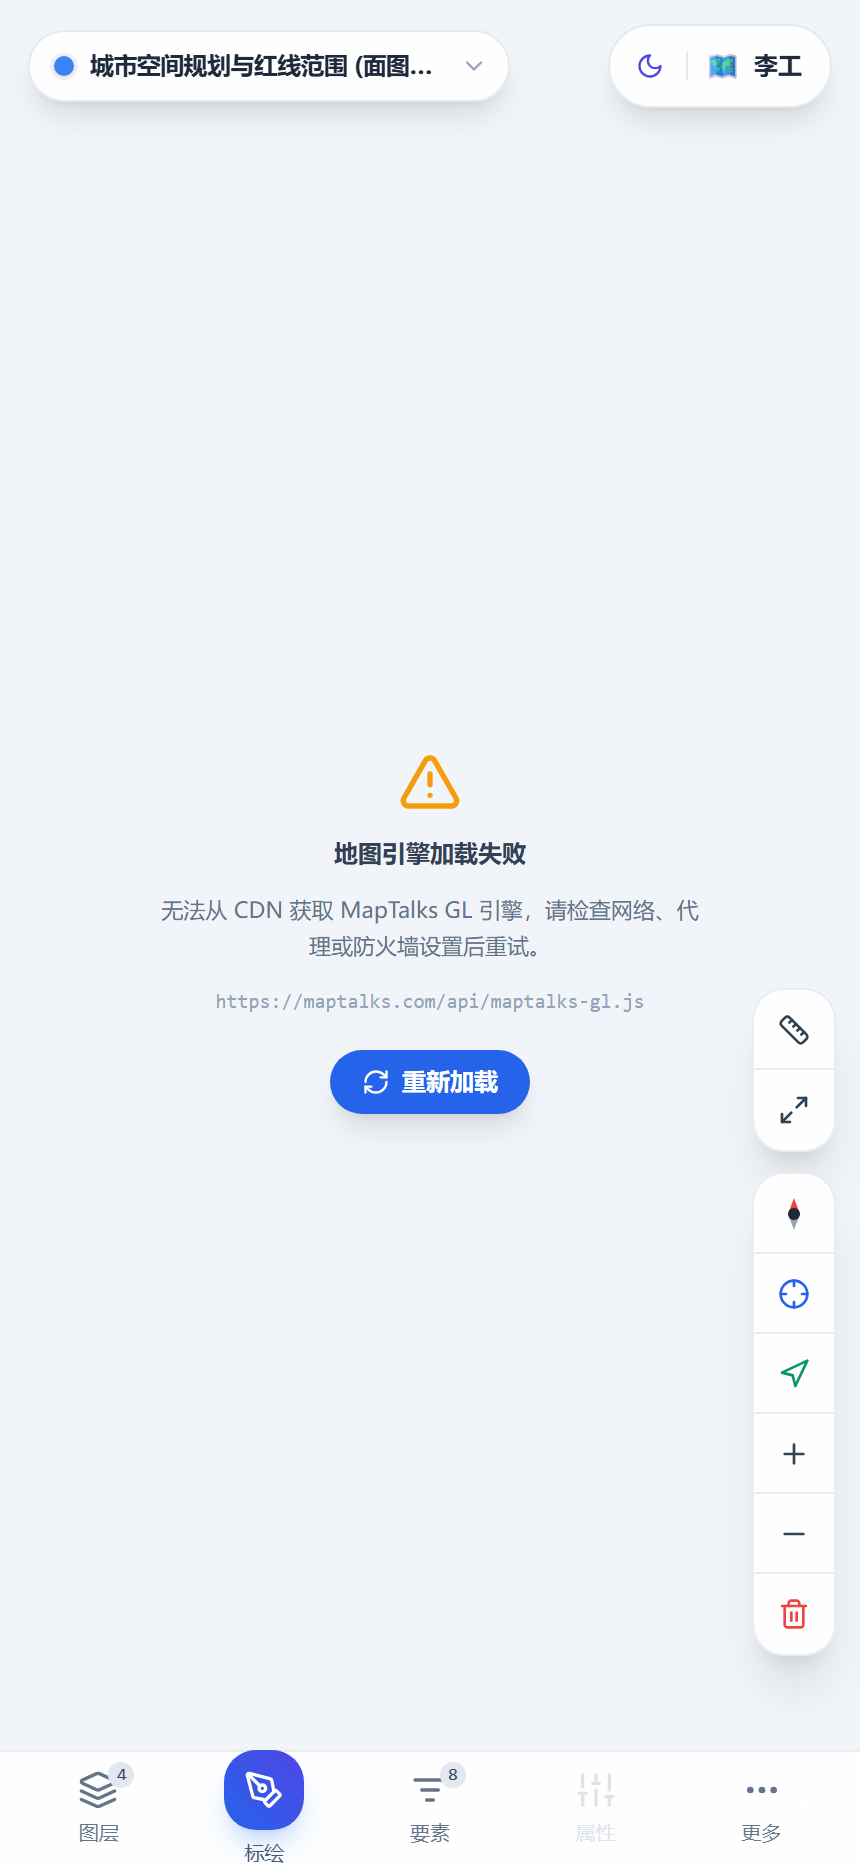
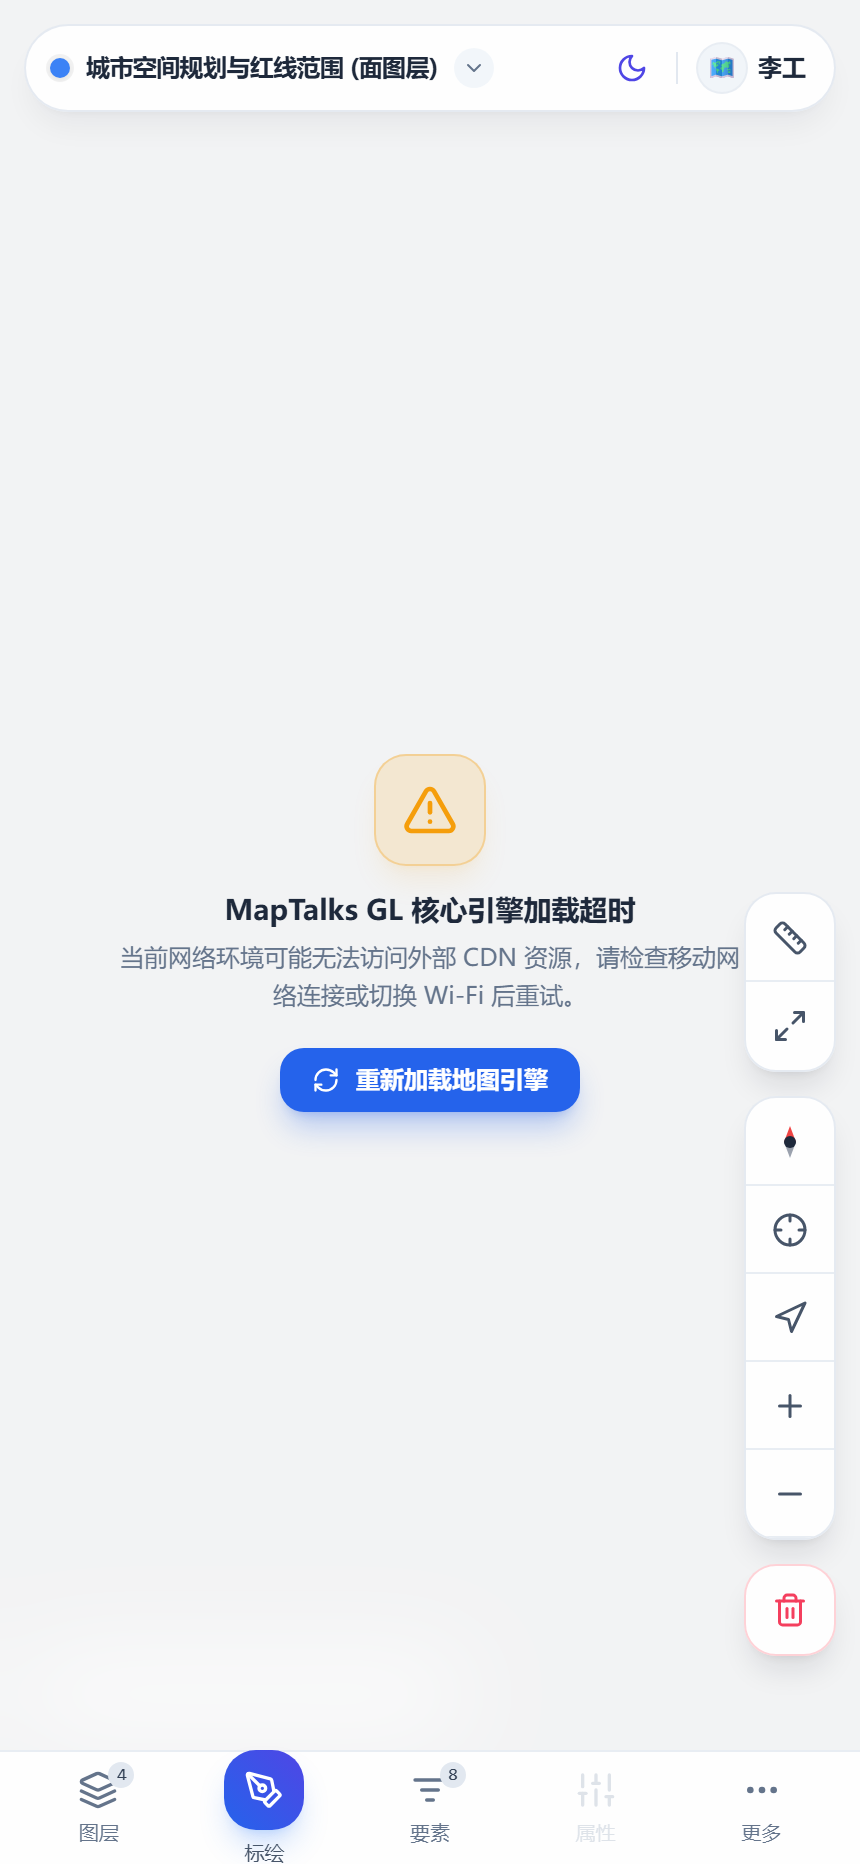
feat: 顶栏合并为单一胶囊，右侧工具条重排分组，并修复重构引入的三处回归
顶栏与工具条重排
- 顶栏左右两块胶囊合并为一个：统一 44px 高度，标题占据弹性空间不再截断，
  头像改用中性圆形徽章托底，消除 emoji 与线性图标混搭的割裂感
- 右侧工具条重新分组：量算(2) / 视图(5) / 清理(1) 三组卡片，卡片左右边缘对齐、
  组间留 12px 间隔，破坏性操作独立成卡并加玫瑰色描边
- 按钮触控区由 40×40 提升到 44×44，图标统一 18px
- 配色收敛：常态图标统一中性灰，仅激活态(测距琥珀/测面翠绿)、朝向偏离(青)、
  破坏性(玫瑰)保留强调色

修复重构(e3775ae)引入的三处回归
- App.tsx 漏传 onOpenClearFeatures，导致右侧「清空地图要素」按钮消失
- 引擎加载遮罩被改回 z-50 全屏，重新遮住顶栏与底栏，恢复为 z-20
- 失败态「重新加载地图引擎」只重置状态不重新拉取引擎，会永久卡在初始化，
  改为整页重载，并补 aria-label

diff --git a/src/components/Mobile/MobileDrawingControls.tsx b/src/components/Mobile/MobileDrawingControls.tsx
@@ -135,7 +135,7 @@ export const MobileDrawingControls: React.FC<MobileDrawingControlsProps> = ({
       {drawingTool && (
         <div
           className="absolute left-3 right-3 z-30 flex items-center justify-between gap-2 p-2.5 rounded-2xl bg-white/95 dark:bg-gray-900/95 backdrop-blur-md border border-blue-500/50 shadow-2xl animate-in slide-in-from-top-4 duration-200"
-          style={{ top: 'calc(env(safe-area-inset-top, 0px) + 3.75rem)' }}
+          style={{ top: 'calc(env(safe-area-inset-top, 0px) + 4.25rem)' }}
         >
           <div className="flex items-center gap-2 min-w-0">
             <span
@@ -250,7 +250,7 @@ export const MobileDrawingControls: React.FC<MobileDrawingControlsProps> = ({
       {drawingTool && topologyWarning && (
         <div
           className="absolute left-3 right-3 z-30 flex items-center gap-2 p-2.5 rounded-xl bg-red-50 dark:bg-red-950/95 border border-red-300 dark:border-red-500/60 text-red-700 dark:text-red-200 text-xs font-semibold backdrop-blur-md shadow-2xl animate-in slide-in-from-top-2 duration-200"
-          style={{ top: 'calc(env(safe-area-inset-top, 0px) + 7.25rem)' }}
+          style={{ top: 'calc(env(safe-area-inset-top, 0px) + 8rem)' }}
         >
           <AlertTriangle className="w-4 h-4 text-red-500 dark:text-red-400 shrink-0 animate-pulse" />
           <span className="truncate">{topologyWarning}</span>
@@ -374,53 +374,57 @@ export const MobileDrawingControls: React.FC<MobileDrawingControlsProps> = ({
         </div>
       )}
 
-      {/* 右侧悬浮移动端 GIS 交互工具组 (模块化整合设计，当选中要素时智能抬升避让，彻底避免遮挡) */}
+      {/* 右侧悬浮移动端 GIS 交互工具条
+          分组重排：① 量算（进入测量模式） ② 视图（朝向/定位/缩放） ③ 清理（破坏性操作，单独隔离）
+          配色收敛：常态统一为中性灰，仅「激活态 / 状态偏离 / 破坏性」保留强调色，避免多色图标混杂。 */}
       <div
-        className="absolute right-3 z-20 flex flex-col gap-2.5 transition-all duration-300"
+        className="absolute right-3 z-20 flex flex-col items-end gap-3 transition-all duration-300"
         style={{
           bottom: `calc(env(safe-area-inset-bottom, 0px) + ${
             drawingTool ? '11.5rem' : hasSelectedFeature ? '11.5rem' : '6.5rem'
           })`,
         }}
       >
-        {/* 1. 空间量算双功能模块 (测距 / 测面) */}
-        <div className="flex flex-col bg-white/90 dark:bg-gray-950/85 backdrop-blur-xl border border-slate-200/80 dark:border-white/10 rounded-2xl shadow-xl overflow-hidden">
+        {/* 1. 量算组 (测距 / 测面) —— 模式型工具，放在最上方便于第一时间发现 */}
+        <div className="flex flex-col bg-white/90 dark:bg-gray-950/85 backdrop-blur-xl border border-slate-200/90 dark:border-white/10 rounded-2xl shadow-lg shadow-slate-900/10 dark:shadow-black/40 overflow-hidden">
           <button
             onClick={onToggleMeasureDistance}
-            className={`w-10 h-10 flex items-center justify-center transition border-b border-slate-200/80 dark:border-white/10 ${
+            className={`w-11 h-11 flex items-center justify-center transition border-b border-slate-200/80 dark:border-white/10 ${
               drawingTool === 'measure-distance'
                 ? 'bg-amber-500 text-gray-950 font-bold shadow-inner'
-                : 'text-slate-700 dark:text-gray-300 active:bg-slate-100 dark:active:bg-gray-800/80 hover:text-blue-600 dark:hover:text-white'
+                : 'text-slate-600 dark:text-gray-300 active:bg-slate-100 dark:active:bg-gray-800/80'
             }`}
             title="空间折线测距 (Distance)"
             aria-label="空间折线测距"
             aria-pressed={drawingTool === 'measure-distance'}
           >
-            <Ruler className="w-4 h-4" />
+            <Ruler className="w-[18px] h-[18px]" />
           </button>
 
           <button
             onClick={onToggleMeasureArea}
-            className={`w-10 h-10 flex items-center justify-center transition ${
+            className={`w-11 h-11 flex items-center justify-center transition ${
               drawingTool === 'measure-area'
                 ? 'bg-emerald-500 text-gray-950 font-bold shadow-inner'
-                : 'text-slate-700 dark:text-gray-300 active:bg-slate-100 dark:active:bg-gray-800/80 hover:text-blue-600 dark:hover:text-white'
+                : 'text-slate-600 dark:text-gray-300 active:bg-slate-100 dark:active:bg-gray-800/80'
             }`}
             title="空间多边形测面 (Area)"
             aria-label="空间多边形测面"
             aria-pressed={drawingTool === 'measure-area'}
           >
-            <Maximize2 className="w-4 h-4" />
+            <Maximize2 className="w-[18px] h-[18px]" />
           </button>
         </div>
 
-        {/* 2. 地图视图控制模块 (物理动态指北针 + 全景复位 + GPS定位 + 缩放控制 + 清空地图要素) */}
-        <div className="flex flex-col bg-white/90 dark:bg-gray-950/85 backdrop-blur-xl border border-slate-200/80 dark:border-white/10 rounded-2xl shadow-xl overflow-hidden">
+        {/* 2. 视图组 (复位正北 / 全景复位 / GPS 定位 / 缩放) */}
+        <div className="flex flex-col bg-white/90 dark:bg-gray-950/85 backdrop-blur-xl border border-slate-200/90 dark:border-white/10 rounded-2xl shadow-lg shadow-slate-900/10 dark:shadow-black/40 overflow-hidden">
           {onResetNorth && (
             <button
               onClick={onResetNorth}
-              className={`w-10 h-10 flex flex-col items-center justify-center border-b border-slate-200/80 dark:border-white/10 active:bg-slate-100 dark:active:bg-gray-800/80 transition relative ${
-                Math.abs(bearing) > 0.5 ? 'bg-cyan-50 dark:bg-cyan-950/40 text-cyan-600 dark:text-cyan-300 shadow-inner' : 'text-slate-700 dark:text-gray-300 hover:text-slate-900 dark:hover:text-white'
+              className={`w-11 h-11 flex flex-col items-center justify-center border-b border-slate-200/80 dark:border-white/10 active:bg-slate-100 dark:active:bg-gray-800/80 transition relative ${
+                Math.abs(bearing) > 0.5
+                  ? 'bg-cyan-50 dark:bg-cyan-950/40 text-cyan-600 dark:text-cyan-300 shadow-inner'
+                  : 'text-slate-600 dark:text-gray-300'
               }`}
               title={`当前地图朝向: ${Math.round(((bearing % 360) + 360) % 360)}° (点击一键复位正北)`}
               aria-label="一键复位正北"
@@ -447,56 +451,59 @@ export const MobileDrawingControls: React.FC<MobileDrawingControlsProps> = ({
 
           <button
             onClick={onResetView}
-            className="w-10 h-10 flex items-center justify-center text-blue-600 dark:text-blue-400 active:bg-slate-100 dark:active:bg-gray-800/80 border-b border-slate-200/80 dark:border-white/10 transition"
+            className="w-11 h-11 flex items-center justify-center text-slate-600 dark:text-gray-300 active:bg-slate-100 dark:active:bg-gray-800/80 border-b border-slate-200/80 dark:border-white/10 transition"
             title="复位全景范围"
             aria-label="复位全景范围"
           >
-            <Crosshair className="w-4 h-4" />
+            <Crosshair className="w-[18px] h-[18px]" />
           </button>
 
           {onLocateGPS && (
             <button
               onClick={onLocateGPS}
-              className="w-10 h-10 flex items-center justify-center text-emerald-600 dark:text-emerald-400 active:bg-slate-100 dark:active:bg-gray-800/80 border-b border-slate-200/80 dark:border-white/10 transition"
+              className="w-11 h-11 flex items-center justify-center text-slate-600 dark:text-gray-300 active:bg-slate-100 dark:active:bg-gray-800/80 border-b border-slate-200/80 dark:border-white/10 transition"
               title="GPS 实时设备定位"
               aria-label="GPS 实时设备定位"
             >
-              <Navigation className="w-4 h-4" />
+              <Navigation className="w-[18px] h-[18px]" />
             </button>
           )}
 
           <button
             onClick={onZoomIn}
-            className="w-10 h-10 flex items-center justify-center text-slate-700 dark:text-gray-200 active:bg-slate-100 dark:active:bg-gray-800/80 border-b border-slate-200/80 dark:border-white/10 transition"
+            className="w-11 h-11 flex items-center justify-center text-slate-600 dark:text-gray-300 active:bg-slate-100 dark:active:bg-gray-800/80 border-b border-slate-200/80 dark:border-white/10 transition"
             title="放大"
             aria-label="地图放大"
           >
-            <Plus className="w-4 h-4" />
+            <Plus className="w-[18px] h-[18px]" />
           </button>
 
           <button
             onClick={onZoomOut}
-            className={`w-10 h-10 flex items-center justify-center text-slate-700 dark:text-gray-200 active:bg-slate-100 dark:active:bg-gray-800/80 transition ${
+            className={`w-11 h-11 flex items-center justify-center text-slate-600 dark:text-gray-300 active:bg-slate-100 dark:active:bg-gray-800/80 transition ${
               onOpenClearFeatures ? 'border-b border-slate-200/80 dark:border-white/10' : ''
             }`}
             title="缩小"
             aria-label="地图缩小"
           >
-            <Minus className="w-4 h-4" />
+            <Minus className="w-[18px] h-[18px]" />
           </button>
 
-          {/* 清除地图要素按钮 */}
-          {onOpenClearFeatures && (
+        </div>
+
+        {/* 3. 清理组 (破坏性操作) —— 独立成卡并加大间距，避免与视图操作误触 */}
+        {onOpenClearFeatures && (
+          <div className="flex flex-col bg-white/90 dark:bg-gray-950/85 backdrop-blur-xl border border-rose-200/90 dark:border-rose-500/30 rounded-2xl shadow-lg shadow-slate-900/10 dark:shadow-black/40 overflow-hidden">
             <button
               onClick={onOpenClearFeatures}
-              className="w-10 h-10 flex items-center justify-center text-red-500 dark:text-red-400 hover:text-red-600 dark:hover:text-red-300 active:bg-red-50 dark:active:bg-red-950/40 transition"
+              className="w-11 h-11 flex items-center justify-center text-rose-500 dark:text-rose-400 hover:text-rose-600 dark:hover:text-rose-300 active:bg-rose-50 dark:active:bg-rose-950/40 transition"
               title="清空地图要素 (Clear Features)"
               aria-label="清空地图要素"
             >
-              <Trash2 className="w-4 h-4" />
+              <Trash2 className="w-[18px] h-[18px]" />
             </button>
-          )}
-        </div>
+          </div>
+        )}
       </div>
     </>
   );

diff --git a/src/components/Mobile/MobileHeader.tsx b/src/components/Mobile/MobileHeader.tsx
@@ -21,13 +21,16 @@ export const MobileHeader: React.FC<MobileHeaderProps> = ({
   onToggleTheme,
 }) => {
   return (
-    <header className="absolute top-0 left-0 right-0 z-30 pointer-events-none px-3.5 pt-[max(env(safe-area-inset-top),12px)] select-none">
-      <div className="flex items-center justify-between">
-        {/* 左侧：当前工作图层灵动胶囊 (单行设计，告别拥挤与截断) */}
+    <header className="absolute top-0 left-0 right-0 z-30 pointer-events-none px-3 pt-[max(env(safe-area-inset-top),12px)] select-none">
+      {/* 顶栏合并为单一胶囊：左区=当前工作图层，右区=主题切换 + 当前身份
+          统一 44px 高度与内边距，避免左右两块高低不齐；图层名占据弹性空间，
+          既不会过早截断，也不会在中间留下空洞。 */}
+      <div className="pointer-events-auto flex items-center gap-1 h-11 pl-1 pr-1 rounded-full bg-white/90 dark:bg-gray-950/90 backdrop-blur-xl border border-slate-200/90 dark:border-white/10 shadow-lg shadow-slate-900/5 dark:shadow-black/30">
+        {/* 左区：当前工作图层切换 */}
         <button
           onClick={onOpenLayers}
           aria-label={`当前工作图层 ${activeLayer?.name || '默认工作图层'}，点击打开图层管控`}
-          className="pointer-events-auto flex items-center gap-2 pl-3 pr-2.5 py-2 rounded-full bg-white/90 dark:bg-gray-950/90 backdrop-blur-xl border border-slate-200/90 dark:border-white/10 shadow-lg active:scale-95 transition-all text-slate-800 dark:text-gray-100 max-w-[60%] min-h-[36px]"
+          className="flex items-center gap-2 min-w-0 flex-1 h-9 pl-2 pr-1.5 rounded-full text-left active:bg-slate-100/80 dark:active:bg-white/10 transition"
         >
           <span
             className="w-2.5 h-2.5 rounded-full shrink-0 shadow-sm ring-2 ring-black/5 dark:ring-white/20"
@@ -36,30 +39,35 @@ export const MobileHeader: React.FC<MobileHeaderProps> = ({
           <span className="text-xs font-bold text-slate-800 dark:text-gray-100 truncate tracking-tight">
             {activeLayer?.name || '默认工作图层'}
           </span>
-          <ChevronDown className="w-3.5 h-3.5 text-slate-400 dark:text-gray-400 shrink-0 ml-0.5" />
+          <span className="w-5 h-5 shrink-0 rounded-full grid place-items-center bg-slate-100/90 dark:bg-white/10">
+            <ChevronDown className="w-3 h-3 text-slate-500 dark:text-gray-400" />
+          </span>
         </button>
 
-        {/* 右侧：主题切换与控制中心一体化胶囊 (高颜值一体化排布，彻底释放横向空间) */}
-        <div className="pointer-events-auto flex items-center p-1 rounded-full bg-white/90 dark:bg-gray-950/90 backdrop-blur-xl border border-slate-200/90 dark:border-white/10 shadow-lg">
+        {/* 右区：主题切换 + 当前身份 */}
+        <div className="flex items-center gap-0.5 shrink-0">
           {onToggleTheme && (
             <button
               onClick={onToggleTheme}
               aria-label={theme === 'dark' ? '切换为清新浅色模式' : '切换为极夜深色模式'}
-              className="w-8 h-8 flex items-center justify-center rounded-full hover:bg-slate-100 dark:hover:bg-gray-800/80 active:scale-90 transition text-slate-700 dark:text-amber-400"
+              className="w-8 h-8 grid place-items-center rounded-full hover:bg-slate-100 dark:hover:bg-gray-800/80 active:scale-90 transition text-slate-600 dark:text-amber-400"
             >
-              {theme === 'dark' ? <Sun className="w-3.5 h-3.5" /> : <Moon className="w-3.5 h-3.5 text-indigo-600" />}
+              {theme === 'dark' ? <Sun className="w-4 h-4" /> : <Moon className="w-4 h-4 text-indigo-600" />}
             </button>
           )}
 
-          <span className="w-px h-3.5 bg-slate-200 dark:bg-gray-800 mx-0.5" />
+          <span className="w-px h-4 bg-slate-200 dark:bg-gray-800 mx-1" />
 
           <button
             onClick={onOpenMore}
             aria-label="打开控制中心与设置"
-            className="flex items-center gap-1.5 pl-1.5 pr-2.5 py-1.5 rounded-full hover:bg-slate-100 dark:hover:bg-gray-800/80 active:scale-95 transition text-slate-800 dark:text-gray-200 min-h-[32px]"
+            className="flex items-center gap-1.5 h-9 pl-1 pr-2.5 rounded-full hover:bg-slate-100 dark:hover:bg-gray-800/80 active:scale-95 transition"
           >
-            <span className="text-sm leading-none">{currentUser?.avatar || '👤'}</span>
-            <span className="text-xs font-bold truncate max-w-[64px]">
+            {/* 头像徽章：用中性圆形托底，避免彩色 emoji 散落在界面中显得突兀 */}
+            <span className="w-6 h-6 shrink-0 rounded-full grid place-items-center text-[12px] leading-none bg-slate-100 dark:bg-white/10 ring-1 ring-slate-200/80 dark:ring-white/10">
+              {currentUser?.avatar || '👤'}
+            </span>
+            <span className="text-xs font-bold text-slate-800 dark:text-gray-100 truncate max-w-[72px]">
               {currentUser?.displayName.split(' ')[0] || '李工'}
             </span>
           </button>

diff --git a/src/components/Map/MaptalksContainer.tsx b/src/components/Map/MaptalksContainer.tsx
@@ -755,21 +755,25 @@ export const MaptalksContainer = forwardRef<MaptalksContainerRef, MaptalksContai
       <div className="w-full h-full relative select-none">
         <div ref={mapContainerRef} className="w-full h-full bg-slate-900" />
 
-        {/* 弱网/CDN 不可达时的友好失败态 */}
+        {/* 弱网/CDN 不可达时的友好失败态
+            层级置于 z-20（低于顶栏/底栏的 z-30），确保引擎异常期间应用外壳仍可见可点。 */}
         {maptalksFailed && !maptalksReady && (
-          <div className="absolute inset-0 z-50 flex flex-col items-center justify-center bg-slate-950/95 backdrop-blur-md px-6 text-center animate-in fade-in duration-300">
-            <div className="w-14 h-14 rounded-2xl bg-amber-500/15 border border-amber-500/30 flex items-center justify-center text-amber-400 mb-3 shadow-lg shadow-amber-500/10">
+          <div className="absolute inset-0 z-20 flex flex-col items-center justify-center bg-white/95 dark:bg-gray-950/95 backdrop-blur-xl px-6 text-center animate-in fade-in duration-300">
+            <div className="w-14 h-14 rounded-2xl bg-amber-500/15 border border-amber-500/30 flex items-center justify-center text-amber-500 dark:text-amber-400 mb-3 shadow-lg shadow-amber-500/10">
               <AlertTriangle className="w-7 h-7" />
             </div>
-            <h3 className="text-base font-bold text-white mb-1">MapTalks GL 核心引擎加载超时</h3>
-            <p className="text-xs text-slate-400 max-w-xs mb-4 leading-relaxed">
+            <h3 className="text-sm font-bold text-slate-800 dark:text-white mb-1">MapTalks GL 核心引擎加载超时</h3>
+            <p className="text-xs text-slate-500 dark:text-slate-400 max-w-xs mb-4 leading-relaxed">
               当前网络环境可能无法访问外部 CDN 资源，请检查移动网络连接或切换 Wi-Fi 后重试。
             </p>
             <button
               onClick={() => {
                 setMaptalksFailed(false);
                 setMaptalksReady(false);
+                // 脚本已加载失败，单纯重置状态无法重新拉取引擎，必须整页重载
+                window.location.reload();
               }}
+              aria-label="重新加载地图引擎"
               className="inline-flex items-center gap-2 px-4 py-2 rounded-xl bg-blue-600 hover:bg-blue-500 active:scale-95 text-white text-xs font-semibold shadow-lg shadow-blue-600/30 transition-all cursor-pointer"
             >
               <RefreshCw className="w-3.5 h-3.5" />
@@ -778,11 +782,12 @@ export const MaptalksContainer = forwardRef<MaptalksContainerRef, MaptalksContai
           </div>
         )}
 
-        {/* 首次加载过渡态 */}
+        {/* 首次加载过渡态
+            同样置于 z-20，避免引擎加载期间把顶栏与底栏一并遮住而无法操作。 */}
         {!maptalksReady && !maptalksFailed && (
-          <div className="absolute inset-0 z-50 flex flex-col items-center justify-center bg-slate-950/80 backdrop-blur-sm text-white">
+          <div className="absolute inset-0 z-20 flex flex-col items-center justify-center bg-white/95 dark:bg-gray-950/95 backdrop-blur-xl text-slate-700 dark:text-gray-300">
             <Loader2 className="w-8 h-8 text-blue-500 animate-spin mb-3" />
-            <span className="text-xs text-slate-300 font-mono tracking-wider">
+            <span className="text-xs text-slate-600 dark:text-slate-300 font-mono tracking-wider">
               正在初始化 MapTalks GL 空间渲染引擎...
             </span>
           </div>

diff --git a/src/App.tsx b/src/App.tsx
@@ -443,6 +443,7 @@ export const App: React.FC = () => {
           onToggleMeasureDistance={handleToggleMeasureDistance}
           onToggleMeasureArea={handleToggleMeasureArea}
           onLocateGPS={handleLocateGPS}
+          onOpenClearFeatures={() => setIsClearModalOpen(true)}
         />
 
         {/* 要素快览悬浮卡片 */}
